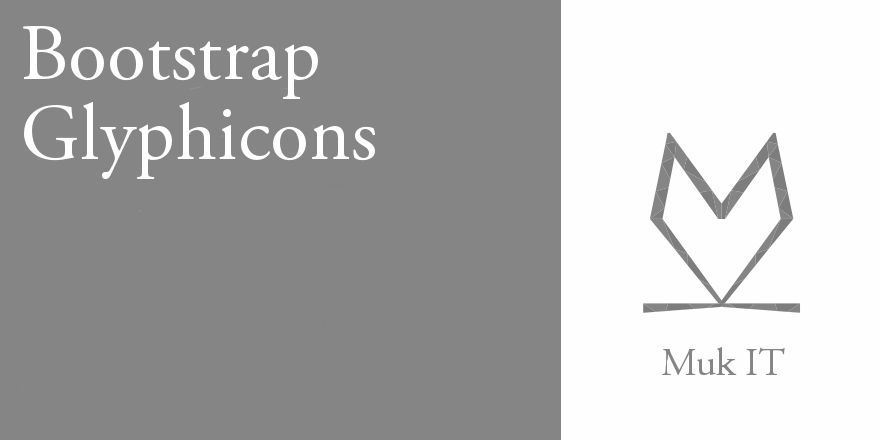
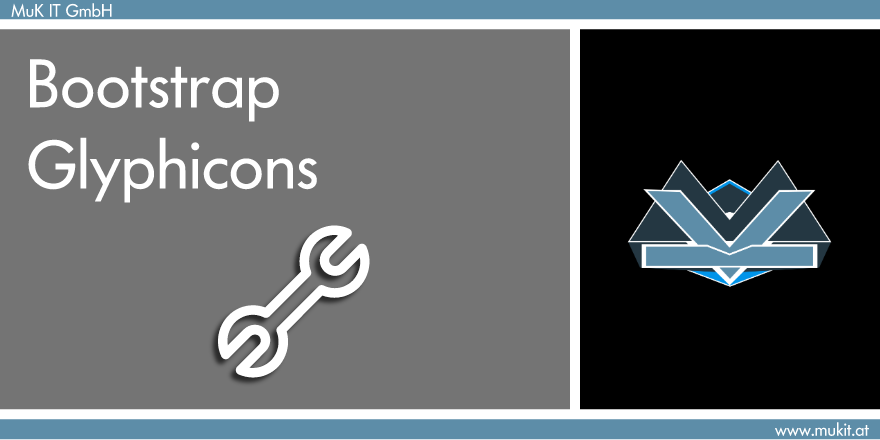
updated

diff --git a/muk_web_glyphicons/static/description/index.html b/muk_web_glyphicons/static/description/index.html
@@ -1,0 +1,37 @@
+<section class="oe_container">
+	<div class="oe_row oe_spaced">
+		<h2 class="oe_slogan">Bootstrap Glyphicons</h2>
+		<h3 class="oe_slogan">Bootstrap Glyphicons Support</h3>
+		<h4 class="oe_slogan" style="font-size: 23px;">MuK IT GmbH -
+			www.mukit.at</h4>
+		<div class="oe_demo oe_picture oe_screenshot">
+			<img src="screenshot.png">
+		</div>
+	</div>
+</section>
+
+<section class="oe_container" style="padding-top: 25px;">
+	<div class="oe_row oe_spaced">
+		<div class="oe_picture">
+			<h3 class="oe_slogan">Overview</h3>
+			<p class="oe_mt32">Odoo does not natively support the Glyphicons
+				from Bootstrap although it uses the framework. This module enables
+				the Bootstrap Glyphicons. The Glyphicons from Font Awesome which are
+				used by Odoo will still be available.</p>
+		</div>
+	</div>
+</section>
+
+<section class="oe_container oe_dark">
+	<h3 class="oe_slogan">Help and Support</h3>
+	<div class="oe_slogan">
+		<a class="btn btn-primary btn-lg mt8" href="mailto:sale@mukit.at">
+			<i class="fa fa-envelope"></i> Email 
+		</a> 
+		<a class="btn btn-primary btn-lg mt8" href="https://mukit.at/page/contactus">
+			<i class="fa fa-phone"></i> Contact 
+		</a>
+	</div>
+	<img src="logo.png" style="width: 200px; margin-bottom: 20px;"
+		class="center-block">
+</section>

diff --git a/muk_web_glyphicons/__manifest__.py b/muk_web_glyphicons/__manifest__.py
@@ -1,8 +1,6 @@
 # -*- coding: utf-8 -*-
 
 ###################################################################################
-# 
-#    MuK Document Management System
 #
 #    Copyright (C) 2017 MuK IT GmbH
 #
@@ -21,8 +19,9 @@
 #
 ###################################################################################
 
+
 {
-    "name": "Bootstrap Glyphicons",
+    "name": "MuK Bootstrap Glyphicons",
     'summary': """Bootstrap Glyphicons Support""",
     'description':"""
         Odoo does not natively support the Glyphicons from Bootstrap although 
@@ -31,24 +30,34 @@
         The Glyphicons from Font Awesome which are used by Odoo will still
         be available.   
     """,
-    'version': '10.0.1.0.0',   
-    'category': 'Extra Tools',   
-    'license': 'AGPL-3',    
-    'author': "MuK IT",
-    'website': "http://www.mukit.at",
-    'contributors': [
+    "version": "10.0.1.0.0",
+    "category": "Extra Tools",
+    "license": "AGPL-3",
+    "website": "http://www.mukit.at",
+    "author": "MuK IT",
+    "contributors": [
         "Mathias Markl <mathias.markl@mukit.at>",
         "Kerrim Abdelhamed <kerrim.adbelhamed@mukit.at>",
     ],
     "depends": [
-        'web',
+        "base",
     ],
     "data": [
-        'views/muk_web_glyphicons.xml',
+        "template/assets.xml",
     ],
-    'images': [
+    "demo": [
+    ],
+    "qweb": [
+        "static/src/xml/*.xml",
+    ],
+    "images": [
         'static/description/banner.png'
     ],
+    "external_dependencies": {
+        "python": [],
+        "bin": [],
+    },
+    "application": False,
     "installable": True,
+    
 }
-

diff --git a/muk_web_glyphicons/__init__.py b/muk_web_glyphicons/__init__.py
@@ -1,8 +1,6 @@
 # -*- coding: utf-8 -*-
 
 ###################################################################################
-# 
-#    MuK Document Management System
 #
 #    Copyright (C) 2017 MuK IT GmbH
 #
